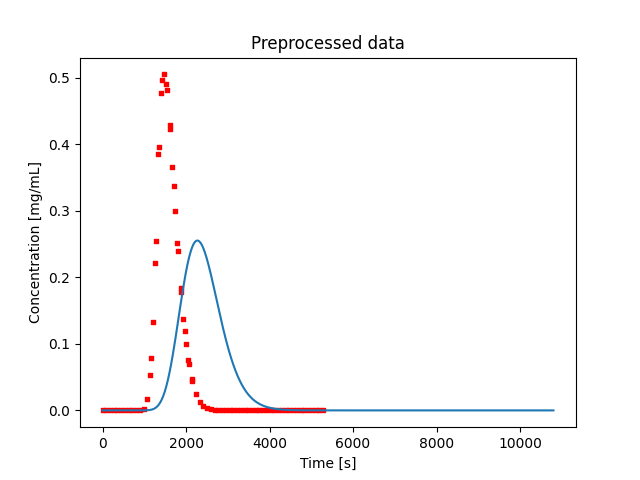
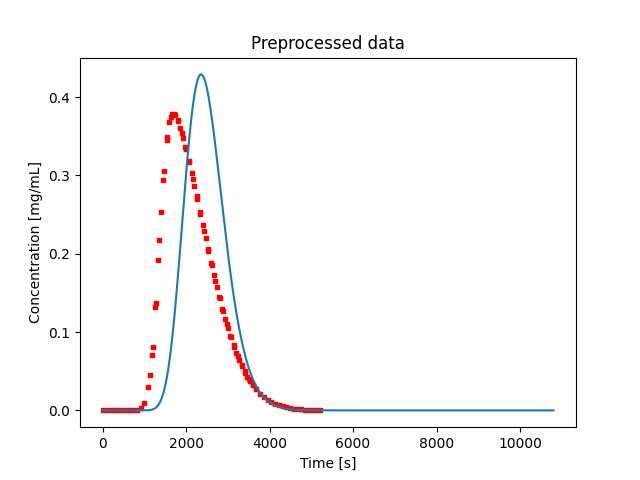
fixed indexes in fit gauss, fixed shift copy in deep copy

diff --git a/functions/Ret_Time_Cor.py b/functions/Ret_Time_Cor.py
@@ -4,6 +4,7 @@ from scipy.optimize import minimize
 import os
 
 def Ret_Time_Cor(experimentSet, experimentClustersExp, threshold = 0, writeToFile = False):
+
     if writeToFile:
         filePath = experimentSet.metadata.path + "\\Time_Shifts.txt"
         print(filePath)
@@ -36,13 +37,14 @@ def Ret_Time_Cor(experimentSet, experimentClustersExp, threshold = 0, writeToFil
     for key, value in experimentClustersExp.clusters.items():
         avgPeakTimes = dict()
         for key2, value2 in value[1].items():
-            peakTimeAvg = 0
+            peakTimeSum = 0
             for comp in value2:
+                pd.set_option('display.max_colwidth', None)
                 column = pd.to_numeric(comp.concentrationTime[comp.name])
                 peakIndex = column.idxmax()
                 peakTime = comp.concentrationTime.iloc[peakIndex, 0]
-                peakTimeAvg += peakTime
-            peakTimeAvg = peakTimeAvg/len(value2)
+                peakTimeSum += peakTime
+            peakTimeAvg = peakTimeSum/len(value2)
             avgPeakTimes[key2] = peakTimeAvg
         initalGuess = list()
         bounds = list()
@@ -61,7 +63,6 @@ def Ret_Time_Cor(experimentSet, experimentClustersExp, threshold = 0, writeToFil
                 head2, tail2 = os.path.split(exp.metadata.path)
                 experimentName, extesion = os.path.splitext(tail2)
                 file.write("Experiment: " + experimentName + ", Shift: " + str(res.x[idx]) + "\n")
-
     if writeToFile:
         file.close()
     return experimentSet

diff --git a/objects/Operator.py b/objects/Operator.py
@@ -499,7 +499,8 @@ class Operator:
     """
     Calculates if comp2 is close to comp1 with tolerance(default 0.05)
     """
-    def Cluster_Match(self, comp1, comp2, tolerance = 0.05):
+    def Cluster_Match(self, comp1, comp2, tolerance = 0.01):
+        print("Calling Cluster_Match")
         cond1 = comp1.experiment.experimentCondition
         cond2 = comp2.experiment.experimentCondition
         if(comp1.name == comp2.name and
@@ -514,7 +515,7 @@ class Operator:
     """
     Calculates if exp2 is close to exp1 with tolerance(default 0.05)
     """
-    def Cluster_Match_Exp(self, exp1, exp2, tolerance = 0.05):
+    def Cluster_Match_Exp(self, exp1, exp2, tolerance = 0.01):
         cond1 = exp1.experimentCondition
         cond2 = exp2.experimentCondition
         if(abs(cond1.flowRate - cond2.flowRate) < tolerance * cond1.flowRate and

diff --git a/functions/Deep_Copy_ExperimentSet.py b/functions/Deep_Copy_ExperimentSet.py
@@ -9,6 +9,7 @@ def Deep_Copy_ExperimentSet(experimentSet):
     newExperimentSet.metadata.description = experimentSet.metadata.description
     for experiment in experimentSet.experiments:
         newExperiment = Experiment()
+        newExperiment.shift = experiment.shift
         newExperiment.metadata.date = experiment.metadata.date
         newExperiment.metadata.description = experiment.metadata.description
         newExperiment.metadata.path = experiment.metadata.path

diff --git a/functions/Fit_Gauss.py b/functions/Fit_Gauss.py
@@ -117,7 +117,7 @@ def Fit_Gauss(experimentSetGauss):
             #result.loc[len(result.index)] = [max_Time,data_set[-1, 1]]
             #result = result.dropna()
 
-            comp.concentrationTime = result
+            comp.concentrationTime = result.reset_index(drop=True)
 
     return experimentSetGauss
 

diff --git a/objects/Experiment.py b/objects/Experiment.py
@@ -14,4 +14,4 @@ class Experiment:
         self.metadata = Metadata()
         self.experimentCondition = ExperimentCondition()
         self.experimentComponents = list()
-        self.shift = 0
+        self.shift = -1
